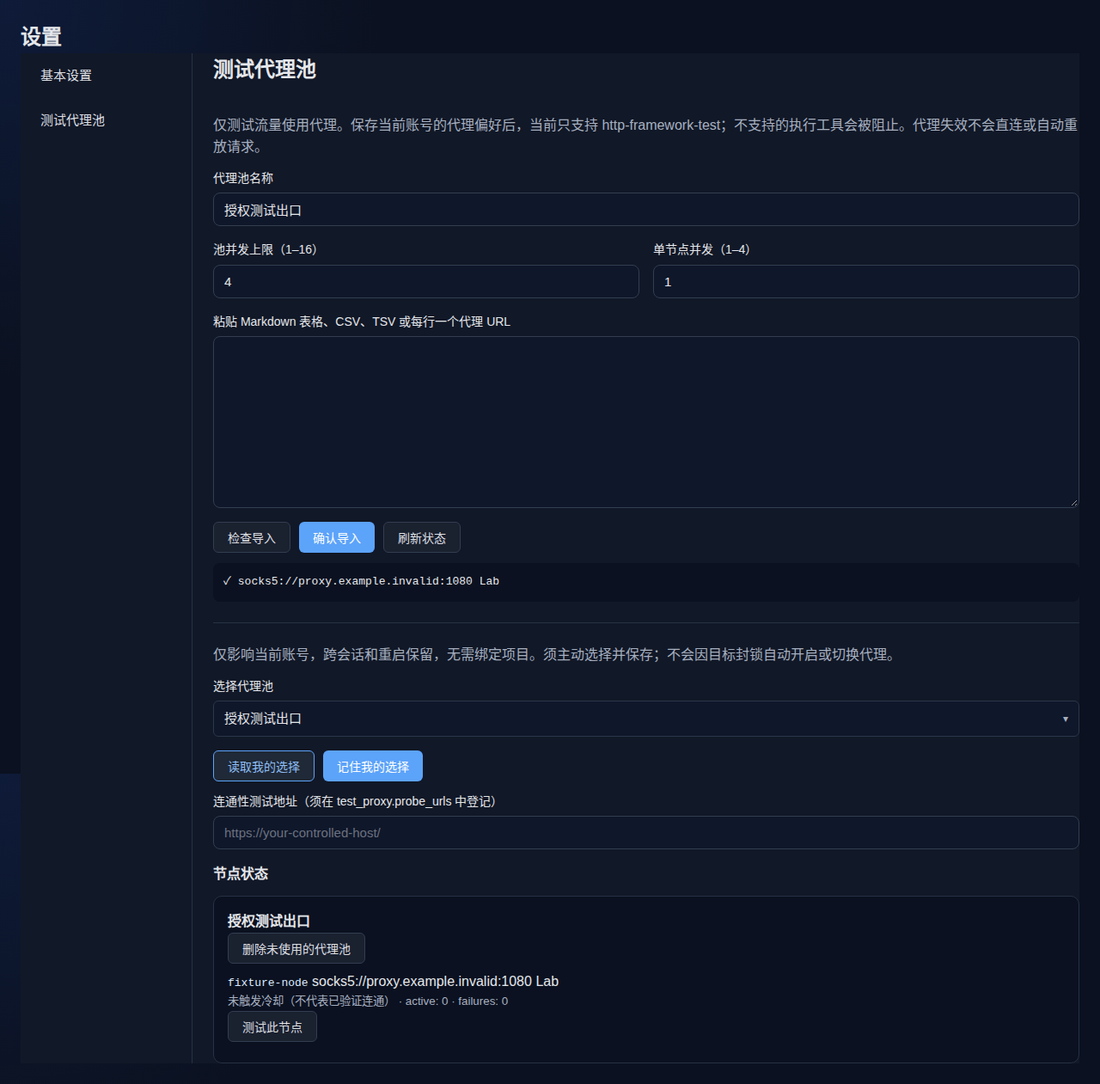
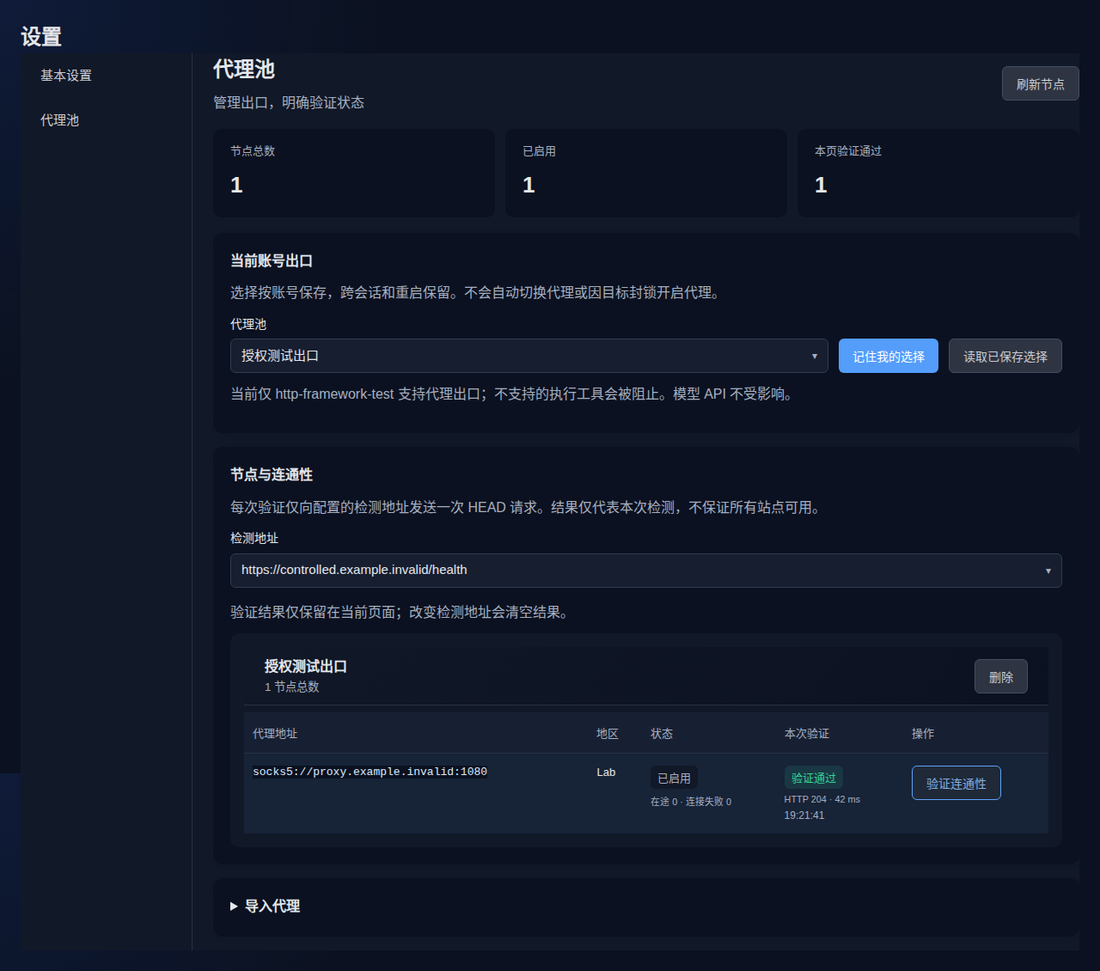
feat(proxy): redesign pool management and connection feedback
Show account routing and per-node probe results in the existing theme.

diff --git a/web/static/js/test-proxy.js b/web/static/js/test-proxy.js
@@ -1,60 +1,87 @@
-// Test proxies affect opted-in account tool requests, never the model provider.
+// Account-scoped proxy management. Validation never changes routing or replays target traffic.
 (() => {
     const labels = {
-        zh: { title: '测试代理池', hint: '仅测试流量使用代理。保存当前账号的代理偏好后，当前只支持 http-framework-test；不支持的执行工具会被阻止。代理失效不会直连或自动重放请求。', name: '代理池名称', import: '粘贴 Markdown 表格、CSV、TSV 或每行一个代理 URL', preview: '检查导入', save: '确认导入', refresh: '刷新状态', project: '选择项目', projectSearch: '按名称搜索项目', pool: '选择代理池', bind: '记住我的选择', direct: '不使用代理池（记住此选择）', status: '节点状态', ready: '未触发冷却（不代表已验证连通）', open: '冷却中', empty: '尚无代理池', fail: '请求失败', waiting: '处理中…', saved: '已保存', previewOK: '格式检查通过；请核对节点后确认导入。', concurrency: '池并发上限（1–16）', perNode: '单节点并发（1–4）', invalid: '请先检查导入格式', bindingHint: '仅影响当前账号，跨会话和重启保留，无需绑定项目。须主动选择并保存；不会因目标封锁自动开启或切换代理。', load: '读取我的选择', remove: '删除未使用的代理池', removeConfirm: '删除这个代理池？被账号选择、旧项目绑定或正在使用的池不能删除。', probe: '测试此节点', probeURL: '连通性测试地址（须在 test_proxy.probe_urls 中登记）' },
-        en: { title: 'Test proxy pools', hint: 'Only test traffic uses these proxies. Accounts opting in currently support http-framework-test; unsupported execution tools are blocked. No direct fallback or automatic request replay.', name: 'Pool name', import: 'Paste Markdown, CSV, TSV or one proxy URL per line', preview: 'Validate import', save: 'Confirm import', refresh: 'Refresh status', project: 'Select project', projectSearch: 'Search projects by name', pool: 'Select pool', bind: 'Remember my choice', direct: 'Do not use a pool (remember this choice)', status: 'Node status', ready: 'Not cooling down (connectivity unverified)', open: 'Cooling down', empty: 'No pools yet', fail: 'Request failed', waiting: 'Working…', saved: 'Saved', previewOK: 'Format validated. Review nodes before importing.', concurrency: 'Pool concurrency (1–16)', perNode: 'Per-node concurrency (1–4)', invalid: 'Validate the import first', bindingHint: 'Saved for this account across conversations and restarts. No project is required. Target blocks never enable or rotate proxies.', load: 'Read my preference', remove: 'Delete unused pool', removeConfirm: 'Delete this pool? Pools selected by accounts, legacy bindings or active requests cannot be deleted.', probe: 'Test node', probeURL: 'Probe URL (must be configured in test_proxy.probe_urls)' }
+        zh: {title:'代理池',subtitle:'管理出口，明确验证状态',account:'当前账号出口',accountHint:'选择按账号保存，跨会话和重启保留。不会自动切换代理或因目标封锁开启代理。',direct:'不使用代理池',bind:'记住我的选择',load:'读取已保存选择',pool:'代理池',saved:'选择已保存',nodes:'节点与连通性',nodeHint:'每次验证仅向配置的检测地址发送一次 HEAD 请求。结果仅代表本次检测，不保证所有站点可用。',probeURL:'检测地址',noProbe:'尚未配置检测地址，请在 test_proxy.probe_urls 中登记 HTTP/HTTPS 地址并重启。',probe:'验证连通性',refresh:'刷新节点',untested:'未验证',checking:'验证中',pass:'验证通过',response:'收到响应，未通过',failed:'验证失败',disabled:'已停用',cooldown:'冷却中',active:'在途',failures:'连接失败',empty:'尚无代理池，请先导入节点。',importTitle:'导入代理',importHint:'支持 Markdown 表格、CSV、TSV、每行一个 URL。账号和密码两列均为 - 或 -- 时按匿名代理处理。',name:'名称',text:'代理内容',limits:'并发设置',concurrency:'池并发（1–16）',perNode:'节点并发（1–4）',preview:'检查格式',save:'确认导入',previewOK:'格式检查通过，请核对预览后导入。',invalid:'请先检查导入格式',remove:'删除',removeConfirm:'删除此代理池？仍被账号选择、旧项目绑定或在途请求使用时无法删除。',waiting:'处理中…',fail:'操作失败',scope:'当前仅 http-framework-test 支持代理出口；不支持的执行工具会被阻止。模型 API 不受影响。',total:'节点总数',enabled:'已启用',verified:'本页验证通过',resultHint:'验证结果仅保留在当前页面；改变检测地址会清空结果。',region:'地区',status:'状态',result:'本次验证',actions:'操作',address:'代理地址',imported:'导入成功',cancel:'取消验证'},
+        en: {title:'Proxy pools',subtitle:'Manage egress and verify connectivity',account:'Current account egress',accountHint:'Saved across conversations and restarts for this account. Target blocks never enable or rotate proxies.',direct:'Do not use a pool',bind:'Remember my choice',load:'Read saved choice',pool:'Proxy pool',saved:'Preference saved',nodes:'Nodes and connectivity',nodeHint:'Each check sends one HEAD request to a configured endpoint. Results apply only to this check, not every website.',probeURL:'Probe endpoint',noProbe:'No endpoint configured. Add a controlled HTTP/HTTPS URL to test_proxy.probe_urls and restart.',probe:'Verify connection',refresh:'Refresh nodes',untested:'Not checked',checking:'Checking',pass:'Verified',response:'Response received; not verified',failed:'Check failed',disabled:'Disabled',cooldown:'Cooling down',active:'Active',failures:'Connection failures',empty:'No pools yet. Import nodes to get started.',importTitle:'Import proxies',importHint:'Markdown, CSV, TSV or one URL per line. Paired - or -- credential placeholders mean anonymous.',name:'Name',text:'Proxy data',limits:'Concurrency',concurrency:'Pool limit (1–16)',perNode:'Node limit (1–4)',preview:'Validate format',save:'Import',previewOK:'Format validated. Review the preview before importing.',invalid:'Validate the import first',remove:'Delete',removeConfirm:'Delete this pool? Account selections, legacy bindings and active requests prevent deletion.',waiting:'Working…',fail:'Operation failed',scope:'Only http-framework-test currently supports proxy routing. Unsupported execution tools are blocked. Model API traffic is unchanged.',total:'Total nodes',enabled:'Enabled',verified:'Verified on this page',resultHint:'Results last only for this page. Changing the endpoint clears results.',region:'Region',status:'Status',result:'Current check',actions:'Actions',address:'Proxy address',imported:'Import complete',cancel:'Cancel check'}
     };
-    let validated = '', pools = [];
+    let validated = '', pools = [], health = {}, probeURLs = [];
+    const results = new Map(), pending = new Map();
     const t = key => labels[(document.documentElement.lang || 'zh').startsWith('zh') ? 'zh' : 'en'][key];
     const el = id => document.getElementById('test-proxy-' + id);
-    const escape = value => String(value).replace(/[&<>"']/g, ch => ({'&':'&amp;', '<':'&lt;', '>':'&gt;', '"':'&quot;', "'":'&#39;'}[ch]));
+    const escape = value => String(value).replace(/[&<>"']/g, c => ({'&':'&amp;','<':'&lt;','>':'&gt;','"':'&quot;',"'":'&#39;'}[c]));
+    // request preserves authorization and cancellation; server errors contain no credentials.
     async function request(path, options) {
         const response = await apiFetch('/api/test-proxy-pools' + path, options);
         const data = await response.json();
         if (!response.ok) throw new Error(data.error || t('fail'));
         return data;
     }
-    function payload() { return {name: el('name').value.trim(), text: el('text').value, max_concurrent: Number(el('concurrency').value), per_node: Number(el('per-node').value)}; }
-    function show(value) { el('message').textContent = value; }
-    async function run(task) { show(t('waiting')); try { await task(); } catch (error) { show(error.message || t('fail')); } }
-    function syncSelects() { if (typeof initSettingsCustomSelects === 'function') initSettingsCustomSelects(el('panel')); }
+    function payload() { return {name:el('name').value.trim(),text:el('text').value,max_concurrent:Number(el('concurrency').value),per_node:Number(el('per-node').value)}; }
+    function show(value) { el('message').textContent=value; }
+    async function run(task) { show(t('waiting'));try{await task();}catch(error){show(error.message||t('fail'));} }
+    function syncSelects() { if(typeof initSettingsCustomSelects==='function')initSettingsCustomSelects(el('panel')); }
     async function loadBinding() {
         el('bind').disabled=true;
-        const data=await request('/preference');
-        el('pool').value=data.pool_id||'';syncSelects();el('bind').disabled=false;
+        const data=await request('/preference');el('pool').value=data.pool_id||'';syncSelects();el('bind').disabled=false;
+    }
+    function updateStats() {
+        const nodes=pools.flatMap(p=>p.nodes);
+        el('total').textContent=nodes.length;el('enabled').textContent=nodes.filter(n=>n.enabled).length;
+        el('verified').textContent=[...results.values()].filter(r=>r.state==='pass').length;
+    }
+    // Render each result beside its node. Refresh never promotes untested nodes to healthy.
+    function renderNodes() {
+        updateStats();
+        el('nodes').innerHTML=pools.length?pools.map(p=>`<section class="test-proxy-pool"><header><div><h4>${escape(p.name)}</h4><small>${p.nodes.length} ${escape(t('total'))}</small></div><button type="button" class="btn-secondary" data-delete-pool="${escape(p.id)}">${escape(t('remove'))}</button></header><div class="proxy-table-wrap"><table class="proxy-table"><thead><tr>${['address','region','status','result','actions'].map(k=>`<th scope="col">${escape(t(k))}</th>`).join('')}</tr></thead><tbody>${p.nodes.map(n=>{
+            const key=p.id+':'+n.id,state=health[key]||{},result=results.get(key),busy=pending.has(key);
+            const label=!n.enabled?t('disabled'):state.circuit_open?t('cooldown'):t('enabled');
+            return `<tr><td><code>${escape(n.address)}</code></td><td>${escape(n.region||'—')}</td><td><span class="proxy-badge">${escape(label)}</span><small>${escape(t('active'))} ${Number(state.active||0)} · ${escape(t('failures'))} ${Number(state.failures||0)}</small></td><td aria-live="polite"><span class="proxy-badge ${busy?'checking':result?.state||''}">${escape(busy?t('checking'):result?t(result.state):t('untested'))}</span>${result?`<small>${escape(result.detail)}</small><time>${escape(result.time)}</time>`:''}</td><td><button type="button" class="btn-secondary" data-probe-pool="${escape(p.id)}" data-probe-node="${escape(n.id)}" ${(!n.enabled||!probeURLs.length)?'disabled':''}>${escape(t(busy?'cancel':'probe'))}</button></td></tr>`;
+        }).join('')}</tbody></table></div></section>`).join(''):`<div class="proxy-empty">${escape(t('empty'))}</div>`;
+        el('nodes').querySelectorAll('[data-delete-pool]').forEach(button=>button.onclick=()=>{if(window.confirm(t('removeConfirm')))run(async()=>{await request('/'+encodeURIComponent(button.dataset.deletePool),{method:'DELETE'});await refresh();show(t('saved'));});});
+        el('nodes').querySelectorAll('[data-probe-node]').forEach(button=>button.onclick=()=>probeNode(button.dataset.probePool,button.dataset.probeNode));
+    }
+    // One explicit check per node, with cancellation; no retry, redirect or routing change.
+    async function probeNode(poolID,nodeID) {
+        const key=poolID+':'+nodeID;
+        if(pending.has(key)){pending.get(key).abort();return;}
+        const url=el('probe-url').value;if(!probeURLs.includes(url)){show(t('noProbe'));return;}
+        const controller=new AbortController();pending.set(key,controller);results.delete(key);renderNodes();
+        try{
+            const result=await request('/probe',{method:'POST',signal:controller.signal,headers:{'Content-Type':'application/json'},body:JSON.stringify({pool_id:poolID,node_id:nodeID,url})});
+            if(!controller.signal.aborted&&el('probe-url').value===url)results.set(key,{state:result.usable?'pass':'response',detail:`HTTP ${result.http_status} · ${result.latency_ms} ms`,time:new Date().toLocaleTimeString()});
+        }catch(error){if(!controller.signal.aborted&&el('probe-url').value===url)results.set(key,{state:'failed',detail:error.message||t('fail'),time:new Date().toLocaleTimeString()});}
+        finally{pending.delete(key);renderNodes();}
     }
     async function refresh() {
-        const data = await request(''); pools = data.pools || [];
-        const selectedPool=el('pool').value;
-        el('pool').innerHTML = `<option value="">${escape(t('direct'))}</option>` + pools.map(p => `<option value="${escape(p.id)}">${escape(p.name)}</option>`).join('');
-        el('pool').value=selectedPool;syncSelects();
-        el('nodes').innerHTML = pools.length ? pools.map(p => `<section class="test-proxy-pool"><h4>${escape(p.name)}</h4><button type="button" class="btn-secondary" data-delete-pool="${escape(p.id)}">${escape(t('remove'))}</button><ul>${p.nodes.map(n => {
-            const health = data.health.nodes[p.id + ':' + n.id] || {};
-            return `<li><code>${escape(n.id)}</code> <span>${escape(n.address)}</span> <span>${escape(n.region || '')}</span><small>${n.enabled ? escape(health.circuit_open ? t('open') : t('ready')) : 'Disabled'} · active: ${Number(health.active || 0)} · failures: ${Number(health.failures || 0)}</small><button type="button" class="btn-secondary" data-probe-pool="${escape(p.id)}" data-probe-node="${escape(n.id)}">${escape(t('probe'))}</button></li>`;
-        }).join('')}</ul></section>`).join('') : escape(t('empty'));
-        el('nodes').querySelectorAll('[data-delete-pool]').forEach(button=>button.onclick=()=>{if(window.confirm(t('removeConfirm')))run(async()=>{await request('/'+encodeURIComponent(button.dataset.deletePool),{method:'DELETE'});await refresh();show(t('saved'));});});
-        el('nodes').querySelectorAll('[data-probe-node]').forEach(button=>button.onclick=()=>run(async()=>{button.disabled=true;try{const result=await request('/probe',{method:'POST',headers:{'Content-Type':'application/json'},body:JSON.stringify({pool_id:button.dataset.probePool,node_id:button.dataset.probeNode,url:el('probe-url').value.trim()})});show(`${result.usable ? (document.documentElement.lang.startsWith("zh") ? "验证通过" : "Verified") : (document.documentElement.lang.startsWith("zh") ? "已收到响应，目标未验证成功" : "Response received; target not verified")} · HTTP ${result.http_status} · ${result.latency_ms} ms`);}finally{button.disabled=false;}}));
+        const data=await request('');pools=data.pools||[];health=data.health?.nodes||{};probeURLs=data.probe_urls||[];
+        const selected=el('pool').value,url=el('probe-url').value;
+        el('pool').innerHTML=`<option value="">${escape(t('direct'))}</option>`+pools.map(p=>`<option value="${escape(p.id)}">${escape(p.name)}</option>`).join('');el('pool').value=selected;
+        el('probe-url').innerHTML=probeURLs.map(u=>`<option value="${escape(u)}">${escape(u)}</option>`).join('');
+        if(probeURLs.includes(url))el('probe-url').value=url;
+        if(url!==el('probe-url').value){pending.forEach(c=>c.abort());results.clear();}
+        el('probe-url').disabled=!probeURLs.length;el('probe-warning').hidden=!!probeURLs.length;
+        const valid=new Set(pools.flatMap(p=>p.nodes.map(n=>p.id+':'+n.id)));for(const key of results.keys())if(!valid.has(key))results.delete(key);
+        syncSelects();renderNodes();
     }
     function mount() {
-        const nav = document.querySelector('.settings-nav'), parent = document.querySelector('#settings-section-basic')?.parentElement;
-        if (!nav || !parent || el('panel')) return;
-        const button = document.createElement('div'); button.className='settings-nav-item';button.dataset.section='test-proxy';button.dataset.requirePermission='config:write';button.textContent=t('title');
+        const nav=document.querySelector('.settings-nav'),parent=document.querySelector('#settings-section-basic')?.parentElement;
+        if(!nav||!parent||el('panel'))return;
+        const button=document.createElement('div');button.className='settings-nav-item';button.dataset.section='test-proxy';button.dataset.requirePermission='config:write';button.textContent=t('title');
         button.onclick=()=>{switchSettingsSection('test-proxy');run(async()=>{await refresh();await loadBinding();show('');});};nav.appendChild(button);
         const panel=document.createElement('div');panel.id='settings-section-test-proxy';panel.className='settings-section-content';
-        panel.innerHTML=`<div id="test-proxy-panel"><div class="settings-section-header"><h3>${escape(t('title'))}</h3></div><p class="test-proxy-hint">${escape(t('hint'))}</p>
-        <div class="form-group"><label for="test-proxy-name">${escape(t('name'))}</label><input id="test-proxy-name" maxlength="100" autocomplete="off"></div>
-        <div class="test-proxy-limits"><div class="form-group"><label for="test-proxy-concurrency">${escape(t('concurrency'))}</label><input type="number" id="test-proxy-concurrency" min="1" max="16" value="4"></div><div class="form-group"><label for="test-proxy-per-node">${escape(t('perNode'))}</label><input type="number" id="test-proxy-per-node" min="1" max="4" value="1"></div></div>
-        <div class="form-group"><label for="test-proxy-text">${escape(t('import'))}</label><textarea id="test-proxy-text" rows="6" spellcheck="false" autocomplete="off"></textarea></div>
-        <div class="test-proxy-actions"><button type="button" class="btn-secondary" id="test-proxy-preview">${escape(t('preview'))}</button><button type="button" class="btn-primary" id="test-proxy-save" disabled>${escape(t('save'))}</button><button type="button" class="btn-secondary" id="test-proxy-refresh">${escape(t('refresh'))}</button></div>
-        <p id="test-proxy-message" role="status" aria-live="polite"></p><pre id="test-proxy-preview-result"></pre>
-        <hr><p class="test-proxy-hint">${escape(t('bindingHint'))}</p><div class="form-group"><label for="test-proxy-pool">${escape(t('pool'))}</label><select id="test-proxy-pool"></select></div><div class="test-proxy-actions"><button type="button" class="btn-secondary" id="test-proxy-load">${escape(t('load'))}</button><button type="button" class="btn-primary" id="test-proxy-bind" disabled>${escape(t('bind'))}</button></div><div class="form-group"><label for="test-proxy-probe-url">${escape(t('probeURL'))}</label><input id="test-proxy-probe-url" type="url" placeholder="https://your-controlled-host/"></div><h4>${escape(t('status'))}</h4><div id="test-proxy-nodes"></div></div>`;
+        panel.innerHTML=`<div id="test-proxy-panel"><div class="proxy-page-heading"><div><h3>${escape(t('title'))}</h3><p>${escape(t('subtitle'))}</p></div><button class="btn-secondary" type="button" id="test-proxy-refresh">${escape(t('refresh'))}</button></div><p id="test-proxy-message" role="status" aria-live="polite"></p>
+        <div class="proxy-summary">${['total','enabled','verified'].map(k=>`<div><span>${escape(t(k))}</span><strong id="test-proxy-${k}">0</strong></div>`).join('')}</div>
+        <section class="proxy-section"><h4>${escape(t('account'))}</h4><p class="test-proxy-hint">${escape(t('accountHint'))}</p><div class="proxy-account-row"><div class="form-group"><label for="test-proxy-pool">${escape(t('pool'))}</label><select id="test-proxy-pool"></select></div><button type="button" class="btn-primary" id="test-proxy-bind" disabled>${escape(t('bind'))}</button><button type="button" class="btn-secondary" id="test-proxy-load">${escape(t('load'))}</button></div><p class="test-proxy-hint">${escape(t('scope'))}</p></section>
+        <section class="proxy-section"><h4>${escape(t('nodes'))}</h4><p class="test-proxy-hint">${escape(t('nodeHint'))}</p><div class="form-group"><label for="test-proxy-probe-url">${escape(t('probeURL'))}</label><select id="test-proxy-probe-url"></select></div><p class="proxy-warning" id="test-proxy-probe-warning">${escape(t('noProbe'))}</p><p class="test-proxy-hint">${escape(t('resultHint'))}</p><div id="test-proxy-nodes"></div></section>
+        <details class="proxy-section" id="test-proxy-import-section" open><summary>${escape(t('importTitle'))}</summary><p class="test-proxy-hint">${escape(t('importHint'))}</p><div class="form-group"><label for="test-proxy-name">${escape(t('name'))}</label><input id="test-proxy-name" maxlength="100" autocomplete="off"></div><div class="form-group"><label for="test-proxy-text">${escape(t('text'))}</label><textarea id="test-proxy-text" rows="4" spellcheck="false" autocomplete="off" placeholder="socks5://proxy.example.invalid:1080"></textarea></div><details class="proxy-advanced"><summary>${escape(t('limits'))}</summary><div class="test-proxy-limits"><div class="form-group"><label for="test-proxy-concurrency">${escape(t('concurrency'))}</label><input type="number" id="test-proxy-concurrency" min="1" max="16" value="4"></div><div class="form-group"><label for="test-proxy-per-node">${escape(t('perNode'))}</label><input type="number" id="test-proxy-per-node" min="1" max="4" value="1"></div></div></details><div class="test-proxy-actions"><button type="button" class="btn-secondary" id="test-proxy-preview">${escape(t('preview'))}</button><button type="button" class="btn-primary" id="test-proxy-save" disabled>${escape(t('save'))}</button></div><pre id="test-proxy-preview-result" hidden></pre></details></div>`;
         parent.appendChild(panel);
         ['text','name','concurrency','per-node'].forEach(id=>el(id).addEventListener('input',()=>{validated='';el('save').disabled=true;}));
-        el('preview').onclick=()=>run(async()=>{const input=payload();const data=await request('/import',{method:'POST',headers:{'Content-Type':'application/json'},body:JSON.stringify({...input,preview:true})});validated=JSON.stringify(input);el('save').disabled=false;el('preview-result').textContent=data.nodes.map(n=>`${n.enabled?'✓':'–'} ${n.address} ${n.region||''}`).join('\n');show(t('previewOK'));});
-        el('save').onclick=()=>run(async()=>{const input=payload();if(validated!==JSON.stringify(input))throw new Error(t('invalid'));el('save').disabled=true;await request('/import',{method:'POST',headers:{'Content-Type':'application/json'},body:JSON.stringify(input)});el('text').value='';validated='';await refresh();show(t('saved'));});
+        el('preview').onclick=()=>run(async()=>{const input=payload();const data=await request('/import',{method:'POST',headers:{'Content-Type':'application/json'},body:JSON.stringify({...input,preview:true})});if(JSON.stringify(payload())!==JSON.stringify(input))return;validated=JSON.stringify(input);el('save').disabled=false;el('preview-result').hidden=false;el('preview-result').textContent=data.nodes.map(n=>`${n.enabled?t('enabled'):t('disabled')}  ${n.address} ${n.region||''}`).join('\n');show(t('previewOK'));});
+        el('save').onclick=()=>run(async()=>{const input=payload();if(validated!==JSON.stringify(input))throw new Error(t('invalid'));el('save').disabled=true;await request('/import',{method:'POST',headers:{'Content-Type':'application/json'},body:JSON.stringify(input)});el('text').value='';validated='';el('preview-result').hidden=true;await refresh();show(t('imported'));});
         el('refresh').onclick=()=>run(async()=>{await refresh();show('');});
         el('load').onclick=()=>run(async()=>{await loadBinding();show('');});
         el('bind').onclick=()=>run(async()=>{await request('/preference',{method:'PUT',headers:{'Content-Type':'application/json'},body:JSON.stringify({pool_id:el('pool').value})});show(t('saved'));});
+        el('probe-url').onchange=()=>{pending.forEach(c=>c.abort());results.clear();renderNodes();};
         if(typeof rbacAfterDynamicRender==='function')rbacAfterDynamicRender(panel.parentElement);
     }
     if(document.readyState==='loading')document.addEventListener('DOMContentLoaded',mount);else mount();

diff --git a/web/static/css/style.css b/web/static/css/style.css
@@ -46802,3 +46802,40 @@ html[data-theme="dark"] { --tool-blocked-color: #f4bc62; }
 @media(max-width:720px) { .test-proxy-limits { grid-template-columns: minmax(0,1fr); } }
 
 .dashboard-token-dialog button { background: var(--bg-secondary); color: var(--text-primary); border: 1px solid var(--border-color); border-radius: 8px; padding: 8px 14px; cursor: pointer; }
+/* Proxy pool workspace: retain application tokens and compact settings rhythm. */
+.proxy-page-heading, .test-proxy-pool > header { display:flex;align-items:center;justify-content:space-between;gap:16px; }
+.proxy-page-heading h3 { margin:0;font-size:24px; }
+.proxy-page-heading p { margin:6px 0 0;color:var(--text-secondary); }
+.proxy-summary { display:grid;grid-template-columns:repeat(3,minmax(0,1fr));gap:12px;margin:18px 0; }
+.proxy-summary > div { padding:16px 20px;border-radius:10px;background:var(--bg-secondary); }
+.proxy-summary span { display:block;color:var(--text-secondary);font-size:13px; }
+.proxy-summary strong { display:block;font-size:26px;margin-top:8px;font-variant-numeric:tabular-nums; }
+.proxy-section { background:var(--bg-secondary);border-radius:12px;padding:20px;margin:16px 0;box-shadow:0 2px 8px rgb(0 0 0 / 4%);min-width:0; }
+.proxy-section h4, .test-proxy-pool h4 { margin:0;font-size:16px; }
+.proxy-section > summary { font-size:16px;font-weight:600;cursor:pointer;min-height:28px; }
+.proxy-account-row { display:flex;flex-wrap:wrap;gap:12px;align-items:end; }
+#test-proxy-panel .proxy-account-row .form-group { flex:1;min-width:200px;margin:0; }
+#test-proxy-panel button { min-height:40px; }
+.proxy-table-wrap { overflow-x:auto; }
+.proxy-table { width:100%;border-collapse:collapse;text-align:left;font-size:13px; }
+.proxy-table th { font-weight:500;color:var(--text-secondary);padding:14px 10px;white-space:nowrap; }
+.proxy-table td { padding:14px 10px;border-top:1px solid var(--border-color);vertical-align:top; }
+.proxy-table td:first-child { min-width:210px; }
+.proxy-table code { overflow-wrap:anywhere; }
+.proxy-table small, .proxy-table time { display:block;margin-top:6px;color:var(--text-secondary);overflow-wrap:anywhere; }
+.proxy-table time { font-size:12px; }
+.proxy-badge { display:inline-block;padding:4px 8px;border-radius:6px;background:var(--bg-primary);color:var(--text-secondary); }
+.proxy-badge.pass { color:var(--success-color,#15803d);background:color-mix(in srgb,var(--success-color,#15803d) 12%,transparent); }
+.proxy-badge.failed { color:var(--error-color,#dc2626);background:color-mix(in srgb,var(--error-color,#dc2626) 12%,transparent); }
+.proxy-badge.response, .proxy-warning { color:var(--warning-color,#b45309); }
+.proxy-badge.checking { color:var(--primary-color); }
+.proxy-warning { padding:12px;border-radius:8px;background:var(--bg-primary);line-height:1.6; }
+.proxy-empty { padding:28px;text-align:center;color:var(--text-secondary); }
+.proxy-advanced { margin:12px 0; }
+.proxy-advanced summary { cursor:pointer;color:var(--text-secondary);padding:8px 0; }
+#test-proxy-message:empty { display:none; }
+#test-proxy-message:not(:empty) { padding:12px;background:var(--bg-secondary);border-radius:8px; }
+#test-proxy-panel .test-proxy-pool { background:var(--bg-primary);border:0;padding:16px; }
+#test-proxy-panel .test-proxy-pool > header { margin-bottom:8px; }
+@media(max-width:900px) { .proxy-section { padding:14px; }.proxy-table th:nth-child(2),.proxy-table td:nth-child(2) { display:none; }.proxy-summary > div { padding:12px; } }
+@media(max-width:600px) { .proxy-account-row { align-items:stretch; }.proxy-page-heading { align-items:start; }.proxy-summary { gap:6px; }.proxy-summary strong { font-size:22px; } }

diff --git a/web/templates/index.html b/web/templates/index.html
@@ -39,7 +39,7 @@
             }
         })();
     </script>
-    <link rel="stylesheet" href="/static/css/style.css?v=20261010-token-details">
+    <link rel="stylesheet" href="/static/css/style.css?v=20261010-pool-ui">
     <link rel="stylesheet" href="/static/css/tool-guard.css?v=20260907-7">
     <link rel="stylesheet" href="/static/css/chat-history.css?v=20261007-1">
     <link rel="stylesheet" href="/static/css/chat-plan-progress.css?v=20260813-4">
@@ -6967,7 +6967,7 @@
     <script src="/static/js/hitl.js?v=20260819-1"></script>
     <script src="/static/js/tool-guard.js?v=20260907-7"></script>
     <script src="/static/js/settings.js?v=20260717-1"></script>
-    <script src="/static/js/test-proxy.js?v=20261010-account"></script>
+    <script src="/static/js/test-proxy.js?v=20261010-pool-ui"></script>
     <script src="/static/js/audit-datetime-picker.js"></script>
     <script src="/static/js/audit.js"></script>
     <script src="/static/js/storage.js"></script>

diff --git a/internal/testproxy/probe.go b/internal/testproxy/probe.go
@@ -131,3 +131,7 @@ func (s *Service) Probe(ctx context.Context, poolID, nodeID, target string) (map
 	failed = false
 	return map[string]interface{}{"node_id": nodeID, "http_status": response.StatusCode, "latency_ms": time.Since(start).Milliseconds(), "reachable": true, "usable": response.StatusCode >= 200 && response.StatusCode < 300}, nil
 }
+
+// ProbeURLs returns a copy of the configured controlled endpoints for the admin UI.
+// Configuration validation rejects credentials and fragments; callers must require config access.
+func (s *Service) ProbeURLs() []string { return append([]string{}, s.probeURLs...) }

diff --git a/tests/internal/testproxy/limits_test.go b/tests/internal/testproxy/limits_test.go
@@ -91,3 +91,16 @@ func TestProbeUsesProxyAndPreservesTargetStatus(t *testing.T) {
 		t.Fatal("target rate limit counted as proxy failure")
 	}
 }
+func TestProbeURLsAreCopied(t *testing.T) {
+	s, _, _ := fixture(t)
+	input := []string{"https://controlled.example.invalid/health"}
+	if err := s.ConfigureProbeURLs(input); err != nil {
+		t.Fatal(err)
+	}
+	input[0] = "https://changed.example.invalid/"
+	returned := s.ProbeURLs()
+	returned[0] = "https://changed.example.invalid/"
+	if s.ProbeURLs()[0] != "https://controlled.example.invalid/health" {
+		t.Fatal("probe configuration mutated")
+	}
+}

diff --git a/internal/handler/test_proxy.go b/internal/handler/test_proxy.go
@@ -32,7 +32,7 @@ func RegisterTestProxyRoutes(api *gin.RouterGroup, auth *security.AuthManager, d
 			c.JSON(500, gin.H{"error": "Could not read proxy pools"})
 			return
 		}
-		c.JSON(200, gin.H{"pools": pools, "health": s.Status()})
+		c.JSON(200, gin.H{"pools": pools, "health": s.Status(), "probe_urls": s.ProbeURLs()})
 	})
 
 	// Account identity comes exclusively from authentication middleware, never request JSON.

diff --git a/docs/en-US/test-proxy-pools.md b/docs/en-US/test-proxy-pools.md
@@ -1,6 +1,6 @@
-# Test proxy pools
+# Proxy pools
 
-Manage pools in **Settings → Test proxy pools**, then save the current account preference (no project required). The UI follows the existing light/dark theme. Model API and knowledge indexing traffic retain their existing network settings.
+Manage pools in **Settings → Proxy pools**, then save the current account preference (no project required). The UI follows the existing light/dark theme. Model API and knowledge indexing traffic retain their existing network settings.
 
 Paste Markdown tables, CSV, TSV, or one HTTP/HTTPS/SOCKS5 URL per line. Explicit ports are required. Validate the sanitized preview before importing. Supported columns include `Host`, `Port`, `类型`, `账号`, `密码`, `地区`, `状态`, `DB_id`, and `ProxyAddr`. Conflicting columns and duplicate endpoints reject the entire import. Limits: 200 nodes per import, 256 KiB text, 50 pools. Imports create immutable pools; replace account preferences and legacy bindings before deleting an old pool.
 
@@ -76,3 +76,5 @@ Imports reject duplicate headers and unknown status values, rather than silently
 Probes make one HEAD request to an explicitly configured controlled endpoint, without redirects or direct fallback. HTTP 407 is an authentication failure; cancellation and timeout have distinct messages. `reachable` means a response arrived; `usable` requires 2xx from the probe endpoint. Other target statuses, including 403 and 429, never trigger rotation. A successful check does not guarantee access to every site.
 
 When both table credential columns are empty, `-`, or `--`, import treats them as anonymous and does not require `TEST_PROXY_KEY`. If either column contains an actual value, both are preserved. Explicit URL credentials are never normalized as placeholders.
+
+The UI separates account egress, node checks and imports. Probe endpoints come from server configuration; checks are disabled when none are configured. Each row shows its current-page result, HTTP status, latency or failure reason, and time. Refresh retains results; changing endpoints or reloading the page clears them.

diff --git a/docs/zh-CN/test-proxy-pools.md b/docs/zh-CN/test-proxy-pools.md
@@ -1,6 +1,6 @@
-# 测试代理池
+# 代理池
 
-在「设置 → 测试代理池」管理测试请求的代理，按当前账号保存选择后生效，无需绑定项目。界面沿用现有明暗主题。AI 模型 API、知识库索引等服务请求保持原网络配置。
+在「设置 → 代理池」管理测试请求的代理，按当前账号保存选择后生效，无需绑定项目。界面沿用现有明暗主题。AI 模型 API、知识库索引等服务请求保持原网络配置。
 
 ## 使用
 
@@ -94,3 +94,5 @@ go build -p 2 -o cyberstrike-ai ./cmd/server
 节点验证不跟随重定向、无直连兜底。HTTP 407 认定为代理认证失败；超时与取消单独提示。`reachable` 表示收到响应，`usable` 仅在测试端点返回 2xx 时为真；403、429、5xx 不能标为验证通过，也不触发更换代理。验证只是该时刻到指定端点的结果，不保证所有站点可用。
 
 表格中账号和密码两列均为空、`-` 或 `--` 时，按无认证代理处理，无需 `TEST_PROXY_KEY`。任一列含实际值时保留两列原值；URL 内显式凭据不做占位符转换。
+
+界面按账号出口、节点验证和导入分区。检测地址从服务端配置列表选择；未配置时禁用验证。每行显示本页最近的验证结果、HTTP 状态、耗时或失败原因及检测时间。刷新节点保留本页结果，更换地址清空结果；页面重载不保留，避免把过期探测当作当前可用性。
